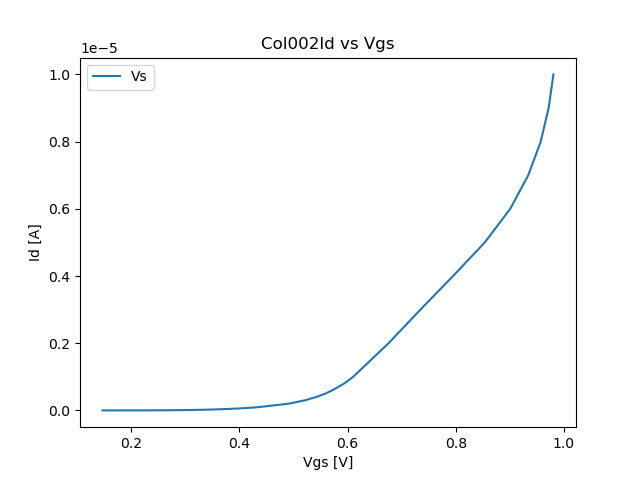
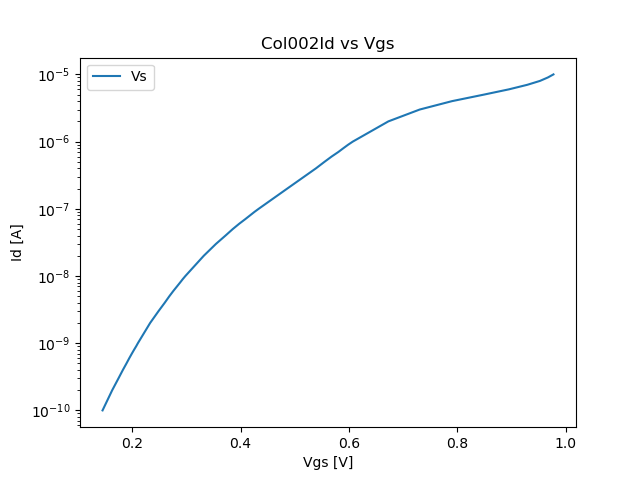
update

diff --git a/Python/cspointChar.py b/Python/cspointChar.py
@@ -90,6 +90,7 @@ for c in range(colNum):
             print(measVs)
             print(vGS)
         plt.plot(vGS, pltData.curr, label = "Vs")
+        plt.yscale('log')
         plt.title(colS + "Id vs Vgs")
         plt.xlabel("Vgs [V]")
         plt.ylabel("Id [A]")
